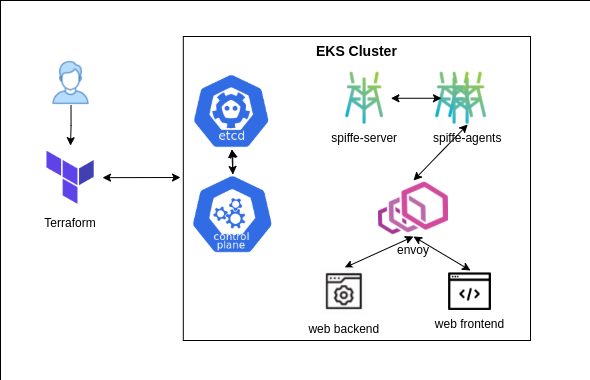
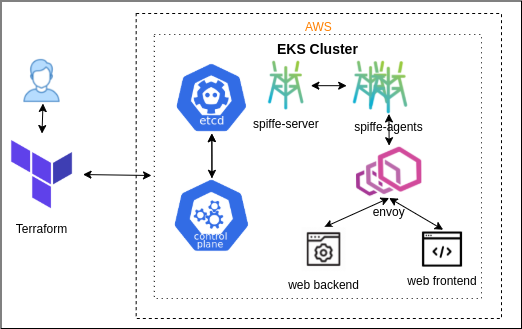
Updated README.md and modified architecture diagrams

Changed region(s): [[0.0, 0.0, 1.0, 1.0], [0.5517, 0.6687, 0.6743, 0.8207]]

diff --git a/spire-envoy-terraform/README.md b/spire-envoy-terraform/README.md
@@ -31,22 +31,25 @@ As shown in the HTTP Arch diagram, the frontend service connect to the backend s
 
 ## Deployment Prerequisites
 
-1. Get AWS Security Keys.
+1. Get & Set AWS Security Keys to access AWS Services API endpoints, like below.
+
+        export AWS_ACCESS_KEY_ID="<AccessKey>"
+        export AWS_SECRET_ACCESS_KEY="<SecretKey>"
 
 ## Deployment Steps
 Execute the following commands to deploy your Kubernetes cluster to EKS & deploy applications.
 
 1. Clone this repository to your machine by running `git clone https://github.com/scytaleio/zerotrust-use-cases.git`.
 1. Change work directory to zerotrust-use-cases/spire-envoy-terraform
-1. Set AWS Security Keys
+1. Make sure you have set AWS Security Keys
 1. (Optional) Set kubeconfig_path variable in main.tf under aws-eks module, defaults to ~/.kube
-1. (Optional) Set waittime_for_cluster variable in main.tf under aws-eks module, defaults to 900secs. Waits time for kubernetes nodes to be in Ready state.
+1. (Optional) Set waittime_for_cluster variable in main.tf under aws-eks module, defaults to 900secs. Wait time for kubernetes nodes to be in Ready state.
 1. (Optional) Set kubeconfig variable in main.tf under spire-agent, workloads-tcp, workloads-http modules, defaults to ~/.kube/config.
 1. (Optional) Set trust_domain variable in main.tf under spire-server, spire-agent, workloads-tcp, workloads-http modules, defaults to envoy.spire-test.com.
 1. Run **terraform init**
 1. Run **terraform plan**
 1. Run **terraform apply**
-1. If deployment is not successful please do troubleshoot the issues before proceeding further.
+1. If deployment is not successful please do troubleshoot the issues before proceeding further. Refer to Trubleshooting steps
 
 ## Validation
 Execute the following commands to validate the deployment.
@@ -71,6 +74,20 @@ This usecase is tested successfully using below mentioned releases of individual
 | Mongo Server | latest |
 | Mongo Client | latest |
 | Frontend (nginx) | latest |
+
+## Troubleshoot
+1. If you experience below mentioned error, please set **KUBECONFIG** environment variable and rerun **terrform apply**
+
+        module.aws-eks.null_resource.aws_eks_kubeconfig (local-exec): Added new context arn:aws:eks:us-east-2:529024819027:cluster/spire-eks-48lqlDPV to /tmp/spire-eks-48lqlDPV
+        module.aws-eks.null_resource.aws_eks_kubeconfig: Creation complete after 0s [id=2004234058031813821]
+        ╷
+        │ Error: Post "http://localhost/api/v1/namespaces/kube-system/configmaps": dial tcp 127.0.0.1:80: connect: connection refused
+        │ 
+        │   with module.aws-eks.module.eks.kubernetes_config_map.aws_auth[0],
+        │   on ../spire-eks/aws-eks/aws_auth.tf line 63, in resource "kubernetes_config_map" "aws_auth":
+        │   63: resource "kubernetes_config_map" "aws_auth" {
+        │ 
+        ╵
 
 ## Cleanup
 Execute the following steps from your workspace to delete your Kubernetes cluster and associated resources from EKS.
